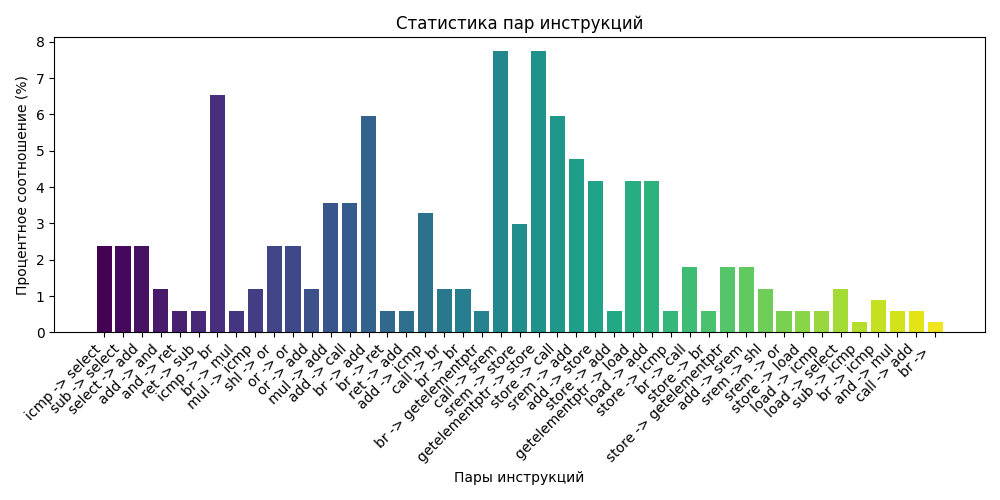
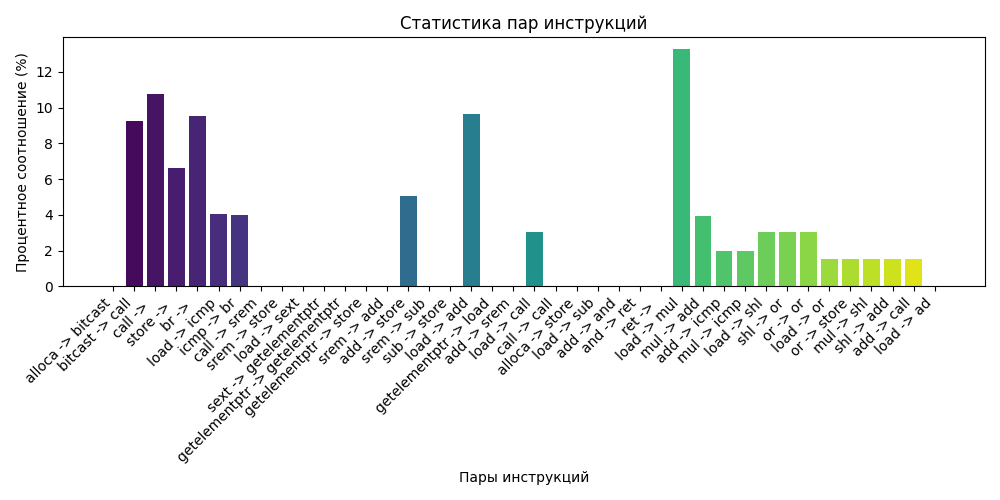
rewrite to count stats in runtime

diff --git a/my_pass/ModPass.cpp b/my_pass/ModPass.cpp
@@ -1,0 +1,60 @@
+#include "llvm/IR/IRBuilder.h"
+#include "llvm/Passes/PassBuilder.h"
+#include "llvm/Passes/PassPlugin.h"
+using namespace llvm;
+
+struct MyModPass : public PassInfoMixin<MyModPass> {
+  PreservedAnalyses run(Module &M, ModuleAnalysisManager &AM) {
+    if(M.getName() == "../app/app.c") {
+      for (auto &F : M) {
+        LLVMContext &Ctx = F.getContext();
+        // Тип аргумента Logger (char*)
+        Type *loggerArgType = Type::getInt8PtrTy(Ctx);
+        // Тип функции Logger (void(char*))
+        FunctionType *loggerFuncType =
+            FunctionType::get(Type::getVoidTy(Ctx), loggerArgType, false);
+        // Получаем (или создаем) функцию Logger
+        FunctionCallee loggerFunc = M.getOrInsertFunction("Logger", loggerFuncType);
+
+        for (auto &B : F) {
+          for (auto &I : B) {
+            if (isa<PHINode>(I)) { // игнорирую PHI
+              continue;
+            }
+            IRBuilder<> builder(&I);
+            std::string opcodeStr = I.getOpcodeName();
+            std::string userName;
+
+            for (auto &U : I.uses()) { // получаю users 
+              User* user = U.getUser();
+              Instruction* inst = cast<Instruction>(user);
+              unsigned opcode = inst->getOpcode();
+              userName = inst->getOpcodeName(opcode);
+            }
+
+            std::string logMessage = opcodeStr + " -> " + userName; 
+            Constant *logMessageConst = builder.CreateGlobalStringPtr(logMessage); 
+
+            builder.CreateCall(loggerFunc, logMessageConst); // вызываю LOGGER перед каждой инструкцией
+        }
+      }
+      }
+    }
+    return PreservedAnalyses::none();
+  };
+};
+
+PassPluginLibraryInfo getPassPluginInfo() {
+  const auto callback = [](PassBuilder &PB) {
+    PB.registerPipelineStartEPCallback([&](ModulePassManager &MPM, auto) {
+      MPM.addPass(MyModPass{});
+      return true;
+    });
+  };
+
+  return {LLVM_PLUGIN_API_VERSION, "MyPlugin", "0.0.1", callback};
+};
+
+extern "C" LLVM_ATTRIBUTE_WEAK PassPluginLibraryInfo llvmGetPassPluginInfo() {
+  return getPassPluginInfo();
+}

diff --git a/my_pass/log.c b/my_pass/log.c
@@ -1,0 +1,5 @@
+#include<stdio.h>
+
+void Logger(char* use_user) {
+    puts(use_user);
+}

diff --git a/my_pass/README.md b/my_pass/README.md
@@ -6,3 +6,12 @@
 
 To run my script (cout statistics): 
 ```python3 pattern_analyzer.py```
+
+---
+
+I rewrite this task to counting stats in runtime. Ypu can run it with:
+```clang++ ModPass.cpp -fPIC -shared -I$(llvm-config --includedir) -o libPass.so```
+```clang -fpass-plugin=./libPass.so log.c ../app/sim.c ../app/app.c ../app/start.c -lSDL2 -I/usr/include/SDL2 -O2```
+```a.out``` 
+And stop the app when you think it's enough statistics.
+Then run python script: ```python3 pattern_analyzer.py``` and watch in the graph (opcode_statistics_runtime.png)
